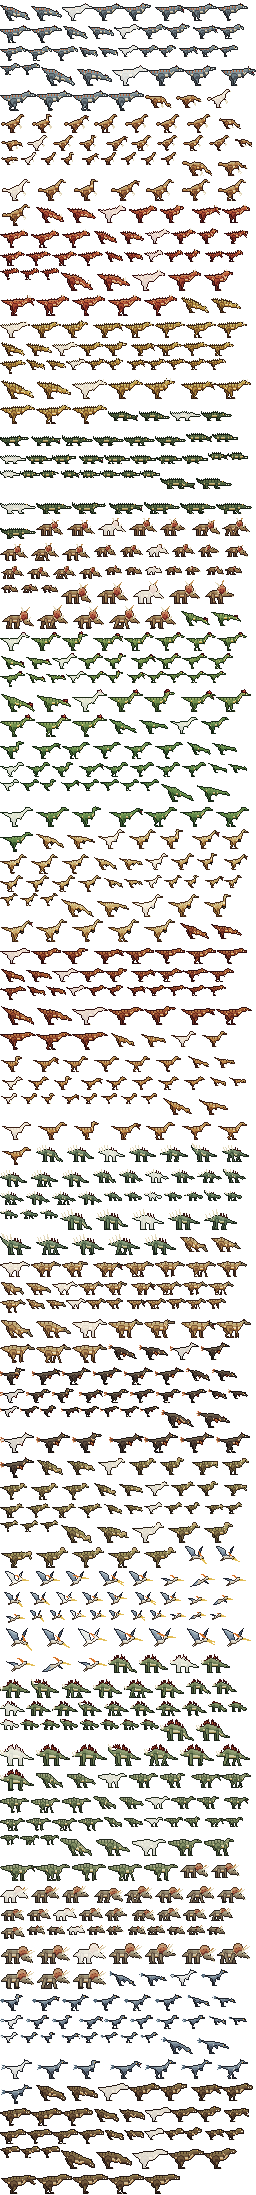
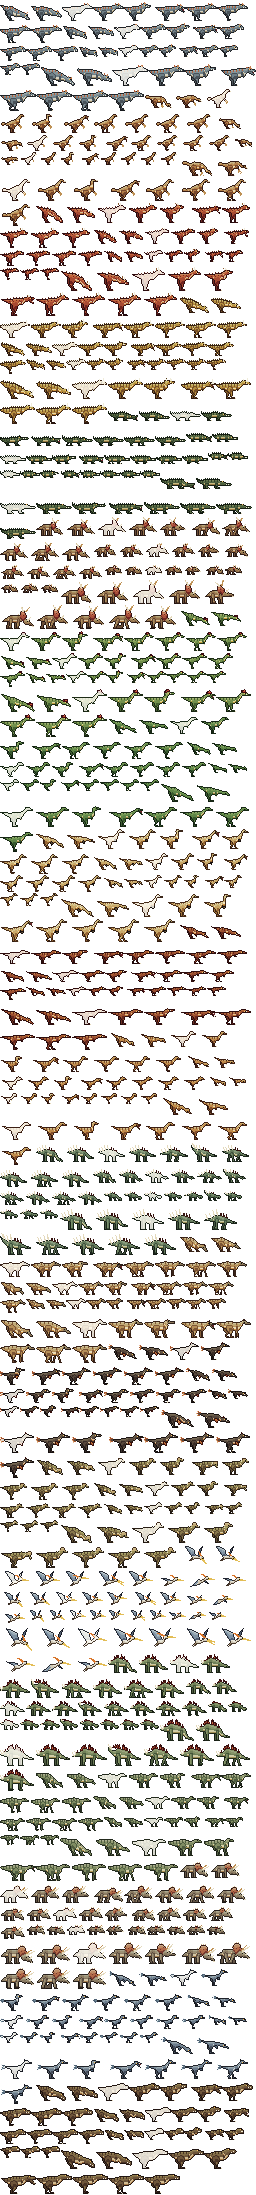
Hatchling art: the hunters apart by build, frills and 1x noise
Task H12, step 4 (PLAN-HATCHLING 6.4, ART-BRIEF's known weak points).

The four hunters shared one stance and differed by head and colour
only; they are named one by one in the game, so they now differ by
silhouette at 1x: the Herrerasaurus slight and low (a thinner body,
shorter legs, a long thin tail, the head carried low); the
Carnotaurus tall on long legs, with stub arms and its horns; the
Ceratosaurus with a deep tail and a taller nose horn; the Allosaurus
bulkier, with light horns before and behind its eyes (the old crest
was so small it was all outline, a dark nub). The Tyrannosaurus
stays as it was.

The two horned dinos' frills read as round shields: a red disc in a
pale ring. Each is now one fan swept back from the skull, knobbed
along its edge (ridges), with no ring.

1x noise, as H11's notes named it: the Troodon's and the
Omniraptor's pale tail-fan tips are tagged "fine" and left out at
the smallest size (place(), FINE_MIN); the Pteranodon's level wing
at -m and -s keeps more of its height, so the beat no longer blinks
to a sliver; the Beipiaosaurus' hand reaches its claws, now in the
bone's shadow tone instead of a white fleck apart from the arm.

Every frame of Herrerasaurus, Carnotaurus, Ceratosaurus, Allosaurus,
Triceratops, Diabloceratops and Beipiaosaurus changes at every size;
Troodon and Omniraptor at -s; the Pteranodon's walk at -m and -s. The
portraits follow their standing frames. The frame table, terrain and
things are unchanged.

diff --git a/tools/games-art/hatchling/species.js b/tools/games-art/hatchling/species.js
@@ -326,14 +326,16 @@ const SPECIES = {
         head: [24.8, 15.0, 3.7, 3.0], snout: [[27.0, 15.8, 2.3], [30.4, 17.4, 1.35], [31.4, 18.3, 0.9]],
         mid: [
           stroke([[22.8, 4.8, 0.95], [24.0, 2.2, 0.6], [25.8, 0.6, 0.35]], { ramp: "bone", thin: "shadow", bone: "head", orn: DIABLO_FRILL }),
-          ellipse(21.2, 9.4, 4.4, 5.5, { ramp: "rim", bone: "head", orn: DIABLO_FRILL }),
-          ellipse(21.2, 9.6, 3.3, 4.4, { ramp: "frill", bone: "head", orn: DIABLO_FRILL }),
+          // The frill: a fan swept back from the skull, not a disc (a round
+          // plate with a pale ring read as a shield, H12); knobs on its edge.
+          poly([[23.8, 12.8], [22.2, 15.2], [19.2, 14.0], [17.2, 10.8], [16.6, 7.4], [17.4, 5.0], [19.2, 4.0], [21.2, 4.4], [22.8, 6.6], [24.4, 9.8]], { ramp: "frill", bone: "head", orn: DIABLO_FRILL }),
           stroke([[19.8, 5.0, 0.95], [18.6, 2.4, 0.6], [16.8, 0.7, 0.35]], { ramp: "bone", thin: true, bone: "head", orn: DIABLO_FRILL })
         ],
         onTop: [stroke([[25.8, 12.8, 0.8], [28.0, 10.4, 0.35]], { ramp: "bone", thin: true, bone: "head", orn: true })]
       }, g),
       {
-        ramps: { body: "#96744E", belly: "#D8C4A0", frill: "#A84E3A", rim: "#D9C29A" },
+        ramps: { body: "#96744E", belly: "#D8C4A0", frill: "#A84E3A" },
+        ridges: [{ from: 17, to: 23, step: 2, colour: "#D9C29A" }],
         marks: [[20, 8, "shadow", "frill"], [22, 10, "shadow", "frill"], [20, 12, "shadow", "frill"]],
         tips: [[31, 18, BONE], [30, 18, BONE]]
       }
@@ -388,8 +390,9 @@ const SPECIES = {
         head: [25.2, 14.2, 4.2, 3.4], snout: [[27.8, 15.2, 2.6], [31.6, 17.0, 1.5], [32.8, 18.0, 1.0]],
         mid: [
           stroke([[25.0, 11.0, 0.9], [30.6, 5.4, 0.4]], { ramp: "bone", thin: "shadow", bone: "head", orn: true }),
-          ellipse(22.0, 9.0, 5.4, 6.0, { ramp: "rim", bone: "head", orn: TRIKE_FRILL }),
-          ellipse(22.0, 9.2, 4.3, 4.9, { ramp: "frill", bone: "head", orn: TRIKE_FRILL })
+          // The frill: a short fan swept back and up from the skull, knobbed
+          // along its edge, not a disc in a pale ring (it read as a shield, H12).
+          poly([[25.2, 11.6], [23.4, 15.4], [19.8, 14.0], [17.0, 10.6], [16.4, 7.0], [17.6, 4.4], [20.2, 3.0], [22.8, 3.4], [24.6, 5.4], [25.8, 8.6]], { ramp: "frill", bone: "head", orn: TRIKE_FRILL })
         ],
         onTop: [
           stroke([[26.6, 11.6, 1.0], [33.4, 6.4, 0.4]], { ramp: "bone", thin: true, bone: "head", orn: true }),
@@ -397,7 +400,8 @@ const SPECIES = {
         ]
       }, g),
       {
-        ramps: { body: "#8B7B62", belly: "#D5C8A8", frill: "#B26A48", rim: "#CDB88E" },
+        ramps: { body: "#8B7B62", belly: "#D5C8A8", frill: "#B26A48" },
+        ridges: [{ from: 16, to: 24, step: 2, colour: "#CDB88E" }],
         marks: [[20, 8, "shadow", "frill"], [23, 7, "shadow", "frill"], [21, 11, "shadow", "frill"], [24, 10, "shadow", "frill"]],
         tips: [[32, 18, BONE], [33, 18, BONE]]
       }
@@ -406,8 +410,8 @@ const SPECIES = {
   // The flyer. Its walk is a wing beat (g.wing, 0 to 3: up as it stands, level,
   // down, level): each wing is raised, flattened or mirrored under its shoulder
   // line (WING_BEAT), and the highlights along the near wing's edge go with it.
-  Pteranodon: (g) => {
-    const beat = WING_BEAT[(g || STAND).wing];
+  Pteranodon: (g, size) => {
+    const beat = wingBeat((g || STAND).wing, size);
     const nearWing = (pts) => pts.map((p) => turn(p, NEAR_SHOULDER, beat.near));
     const farWing = (pts) => pts.map((p) => turn(p, FAR_SHOULDER, beat.far));
     const parts = [
@@ -451,7 +455,7 @@ const SPECIES = {
       }, g),
       {
         ramps: { body: "#6C7C8C", belly: "#D4D8D8", feather: "#4F6274" },
-        tips: [[1, 9, "#E8EEF2"], [1, 12, "#E8EEF2"], [2, 14, "#E8EEF2"], [21, 17, "#E8EEF2"]],
+        tips: [[1, 9, "#E8EEF2", "fine"], [1, 12, "#E8EEF2", "fine"], [2, 14, "#E8EEF2", "fine"], [21, 17, "#E8EEF2"]],
         eyeColour: AMBER, pupil: true,
         marks: [[2, 13, "highlight", "feather"], [3, 11, "highlight", "feather"], [20, 16, "highlight", "feather"], [22, 16, "highlight", "feather"], [16, 12, "highlight"], [18, 11, "highlight"], [12, 13, "highlight"]]
       }
@@ -460,11 +464,11 @@ const SPECIES = {
   Herrerasaurus: (g) =>
     finish(
       biped({
-        hip: [14, 12.6], chest: [21, 11.8], girth: [4.2, 3.6],
-        tail: [[11.5, 12.2, 3.2], [6.5, 10.8, 2.0], [2, 9.2, 0.9], [0.5, 8.8, 0.5]],
-        neck: [[22.6, 11, 2.8], [25.4, 9, 2.3]],
-        head: [28, 8.2, 3.5, 2.6], snout: [[29.2, 8.4, 2.0], [34.4, 9.2, 1.25]], teeth: true,
-        leg: { T: 5.2, w: 3.3, f: 3.5 }, arm: { len: 3.2, w: 0.95 }
+        hip: [14, 13.6], chest: [21.2, 13.0], girth: [3.4, 2.9],
+        tail: [[12, 13.4, 2.6], [7, 12.6, 1.6], [2.5, 11.6, 0.8], [0.4, 11.2, 0.45]],
+        neck: [[22.4, 12.4, 2.3], [25.2, 10.8, 1.9]],
+        head: [27.6, 10.0, 3.1, 2.2], snout: [[28.8, 10.2, 1.7], [34.2, 11.0, 1.05]], teeth: true,
+        leg: { T: 4.6, w: 2.8, f: 3.4 }, arm: { len: 3.4, w: 0.85 }
       }, g),
       { ramps: { body: "#9A4E30", belly: "#E2C496" }, eyeColour: AMBER, pupil: true, stripes: stripes([4, 7, 10, 13, 16, 19], 2, { tone: "shadow" }) }
     ),
@@ -485,25 +489,25 @@ const SPECIES = {
         ramps: { body: "#57483C", belly: "#D9C09A", feather: "#A9572F" },
         eyeColour: AMBER, pupil: true,
         marks: [[1, 12, "highlight", "feather"], [2, 10, "highlight", "feather"], [20, 15, "highlight", "feather"], [22, 16, "highlight", "feather"]],
-        tips: [[16, 21, BONE], [17, 20, BONE], [0, 8, "#E9B58A"], [0, 11, "#E9B58A"], [1, 13, "#E9B58A"]]
+        tips: [[16, 21, BONE], [17, 20, BONE], [0, 8, "#E9B58A", "fine"], [0, 11, "#E9B58A", "fine"], [1, 13, "#E9B58A", "fine"]]
       }
     ),
 
   Carnotaurus: (g) =>
     finish(
       biped({
-        hip: [13.5, 11.8], chest: [20.5, 10.8], girth: [4.4, 3.9],
-        tail: [[11.5, 11.6, 3.4], [6, 10.4, 2.1], [2, 9.0, 1.0], [0.5, 8.6, 0.5]],
-        neck: [[22, 9.8, 3.0], [24.6, 7.8, 2.6]],
-        head: [27.2, 6.6, 3.2, 2.9], snout: [[28.2, 7.0, 2.3], [31.6, 7.7, 1.7]], teeth: true,
-        behind: [poly([[24.6, 4.8], [25.0, 1.6], [26.2, 4.4]], { ramp: "bone", far: true, thin: "shadow", bone: "head", orn: true })],
-        onTop: [poly([[26.2, 4.6], [27.2, 0.8], [28.7, 4.4]], { ramp: "bone", thin: "light", bone: "head", orn: true })],
-        leg: { T: 6, w: 3.3, f: 3.4 }, arm: { len: 1.5, w: 0.7 }
+        hip: [13.5, 10.2], chest: [20.5, 9.4], girth: [4.0, 3.5],
+        tail: [[11.5, 10.0, 3.1], [6, 9.0, 1.9], [2, 7.8, 0.9], [0.5, 7.4, 0.5]],
+        neck: [[21.8, 8.4, 2.7], [24.4, 6.6, 2.4]],
+        head: [27.0, 5.6, 3.0, 2.7], snout: [[28.0, 6.0, 2.2], [31.2, 6.6, 1.7]], teeth: true,
+        behind: [poly([[24.3, 3.8], [24.4, 0.8], [25.7, 3.4]], { ramp: "bone", far: true, thin: "shadow", bone: "head", orn: true })],
+        onTop: [poly([[25.8, 3.6], [26.4, 0.3], [28.2, 3.4]], { ramp: "bone", thin: "light", bone: "head", orn: true })],
+        leg: { T: 7.4, w: 3.1, f: 3.4 }, arm: { len: 0.9, w: 0.6 }
       }, g),
       {
         ramps: { body: "#A84A32", belly: "#E0C49C" },
-        eye: [28, 6], eyeColour: AMBER, pupil: true,
-        marks: [[8, 10, "shadow"], [11, 9, "shadow"], [12, 10, "shadow"], [15, 9, "shadow"], [18, 9, "shadow"], [19, 10, "shadow"], [5, 10, "shadow"], [22, 8, "shadow"]],
+        eye: [28, 5], eyeColour: AMBER, pupil: true,
+        marks: [[8, 9, "shadow"], [11, 8, "shadow"], [12, 9, "shadow"], [15, 8, "shadow"], [18, 8, "shadow"], [19, 9, "shadow"], [5, 9, "shadow"], [22, 7, "shadow"]],
         ridges: [{ from: 6, to: 22, step: 3, colour: "#5E2418" }]
       }
     ),
@@ -512,11 +516,11 @@ const SPECIES = {
     finish(
       biped({
         hip: [13.5, 12.4], chest: [21, 11.6], girth: [4.3, 3.7],
-        tail: [[11.5, 12.2, 3.5], [6, 11, 2.3], [2, 9.6, 1.1], [0.5, 9.2, 0.5]],
+        tail: [[11.5, 12.2, 3.9], [6.5, 11.6, 3.1], [2.6, 10.6, 2.0], [0.5, 10.0, 0.9]],
         neck: [[22.6, 10.8, 2.9], [25.2, 8.8, 2.4]],
         head: [27.8, 7.8, 3.5, 2.7], snout: [[29, 8.1, 2.1], [33.8, 8.9, 1.4]], teeth: true,
         onTop: [
-          poly([[30.4, 7.3], [31.4, 3.6], [32.7, 7.5]], { ramp: "bone", thin: "light", bone: "snout", orn: true }),
+          poly([[30.1, 7.3], [31.2, 2.4], [32.9, 7.5]], { ramp: "bone", thin: "light", bone: "snout", orn: true }),
           poly([[26.5, 5.9], [27.2, 3.6], [28.5, 5.7]], { ramp: "bone", thin: "light", bone: "head", orn: true })
         ],
         leg: { T: 5.4, w: 3.4, f: 3.5 }, arm: { len: 3.0, w: 0.95 }
@@ -602,12 +606,17 @@ const SPECIES = {
   Allosaurus: (g) =>
     finish(
       biped({
-        hip: [13, 12], chest: [21, 11], girth: [4.8, 4.2],
-        tail: [[10.8, 11.8, 3.8], [5.6, 10.4, 2.4], [1.8, 8.8, 1.1], [0.5, 8.4, 0.5]],
-        neck: [[22.8, 10, 3.2], [25.4, 8, 2.8]],
-        head: [28.2, 7.2, 3.9, 2.9], snout: [[29.4, 7.5, 2.3], [34.6, 8.4, 1.6]], teeth: true,
-        onTop: [poly([[27.0, 5.1], [28.0, 2.6], [29.7, 5.0]], { ramp: "crest", sep: true, bone: "head", orn: true })],
-        leg: { T: 5.8, w: 3.7, f: 3.6 }, arm: { len: 3.6, w: 1.1 }
+        hip: [13, 11.8], chest: [21, 10.8], girth: [5.2, 4.5],
+        tail: [[10.8, 11.6, 4.0], [5.6, 10.4, 2.6], [1.8, 8.8, 1.2], [0.5, 8.4, 0.5]],
+        neck: [[22.8, 9.8, 3.4], [25.4, 8, 3.0]],
+        head: [28.4, 7.2, 4.0, 2.9], snout: [[29.6, 7.5, 2.4], [34.6, 8.4, 1.6]], teeth: true,
+        onTop: [
+          // The horns before and behind its eyes, light on the skull (an
+          // outlined knob this small was all outline: a dark nub, H12).
+          poly([[28.7, 5.3], [29.8, 2.0], [31.5, 5.1]], { ramp: "crest", thin: "light", bone: "head", orn: true }),
+          poly([[25.9, 5.1], [26.6, 3.2], [27.9, 5.0]], { ramp: "crest", thin: "base", bone: "head", orn: true })
+        ],
+        leg: { T: 5.8, w: 3.9, f: 3.6 }, arm: { len: 3.6, w: 1.1 }
       }, g),
       {
         ramps: { body: "#6F7F86", belly: "#D6D2C0", crest: "#B5603A" },
@@ -642,10 +651,13 @@ const SPECIES = {
         head: [25.4, 3.9, 2.4, 1.8], snout: [[26.4, 4.2, 1.3], [29.2, 4.9, 0.8]], mouth: false,
         behind: [ellipse(4.4, 13.3, 2.7, 2.1, { bone: "tailEnd" })],
         front: [
-          stroke([[20.4, 12.8, 1.1], [23.6, 15.2, 0.8]], { limb: true, sep: true }),
-          stroke([[23.8, 15.2, 0.5], [27.0, 17.4, 0.3]], { ramp: "bone", thin: true, orn: true }),
-          stroke([[23.8, 15.4, 0.5], [26.0, 18.6, 0.3]], { ramp: "bone", thin: true, orn: true }),
-          stroke([[23.4, 15.6, 0.5], [24.6, 19.0, 0.3]], { ramp: "bone", thin: true, orn: true })
+          // The hand reaches its claws, and the claws are the bone's shadow:
+          // a pale claw apart from the arm was a white fleck before the animal
+          // at every size (H12). Long claws are still its kind's outline.
+          stroke([[20.4, 12.8, 1.1], [24.0, 15.6, 0.85]], { limb: true, sep: true }),
+          stroke([[24.0, 15.4, 0.55], [27.0, 17.4, 0.3]], { ramp: "bone", thin: "shadow", orn: true }),
+          stroke([[24.0, 15.6, 0.55], [26.0, 18.6, 0.3]], { ramp: "bone", thin: "shadow", orn: true }),
+          stroke([[23.6, 15.8, 0.55], [24.6, 19.0, 0.3]], { ramp: "bone", thin: "shadow", orn: true })
         ],
         leg: { T: 4.6, w: 3.3, f: 3.2 }
       }, g),
@@ -767,6 +779,15 @@ const WING_BEAT = [
   { near: -0.6, far: -0.45 },
   { near: 0.35, far: 0.4 }
 ];
+// A level wing at the two small sizes (H12): flattened to a third of its height
+// it was a sliver of outline, so the beat read as wing, nothing, wing; there
+// it keeps more of its height.
+const LEVEL_SMALL = { "-m": 0.55, "-s": 0.6 };
+function wingBeat(wing, size) {
+  const beat = WING_BEAT[wing];
+  const level = LEVEL_SMALL[(size && size.suffix) || ""];
+  return level && (wing === 1 || wing === 3) ? { near: level, far: level + 0.05 } : beat;
+}
 function turn(p, about, f) {
   if (f === 1) return p;
   return [p[0], about[1] + (p[1] - about[1]) * f, ...p.slice(2)];

diff --git a/tools/games-art/engine.js b/tools/games-art/engine.js
@@ -281,7 +281,7 @@ function sprite(spec) {
 //                 under 1 always keep it.
 //
 // Marks, tips and extras (pixels, not shapes) go where the part under them
-// went; stripes and ridges are spaced for the new size. An extra tagged "eye"
+// went (a tip tagged "fine" is left out under FINE_MIN); stripes and ridges are spaced for the new size. An extra tagged "eye"
 // as its fourth element is kept off the edge of a smaller head (an eye on the
 // outline is no eye), and one tagged "pupil" stays beside its eye.
 //
@@ -293,6 +293,10 @@ const MIN_ELLIPSE = 0.6;
 // The skull (a part tagged `skull`) at a smaller size: its radii never under
 // this, so it holds a row of skin round its eye.
 const MIN_SKULL = 1.9;
+// A tip tagged "fine" as its fourth element (a feather's pale end) is drawn
+// only at a scale of at least this: at a hatchling's size it was a scatter of
+// loose dots (H12).
+const FINE_MIN = 0.6;
 function place(spec, look) {
   const s = look.scale === undefined ? 1 : look.scale;
   const [fx, fy] = look.from;
@@ -478,7 +482,7 @@ function place(spec, look) {
     h: look.h,
     parts,
     marks: movePixels(spec.marks || []),
-    tips: movePixels(spec.tips || []),
+    tips: movePixels((spec.tips || []).filter((t) => !(t[3] === "fine" && s < FINE_MIN))),
     stripes,
     ridges,
     extras
